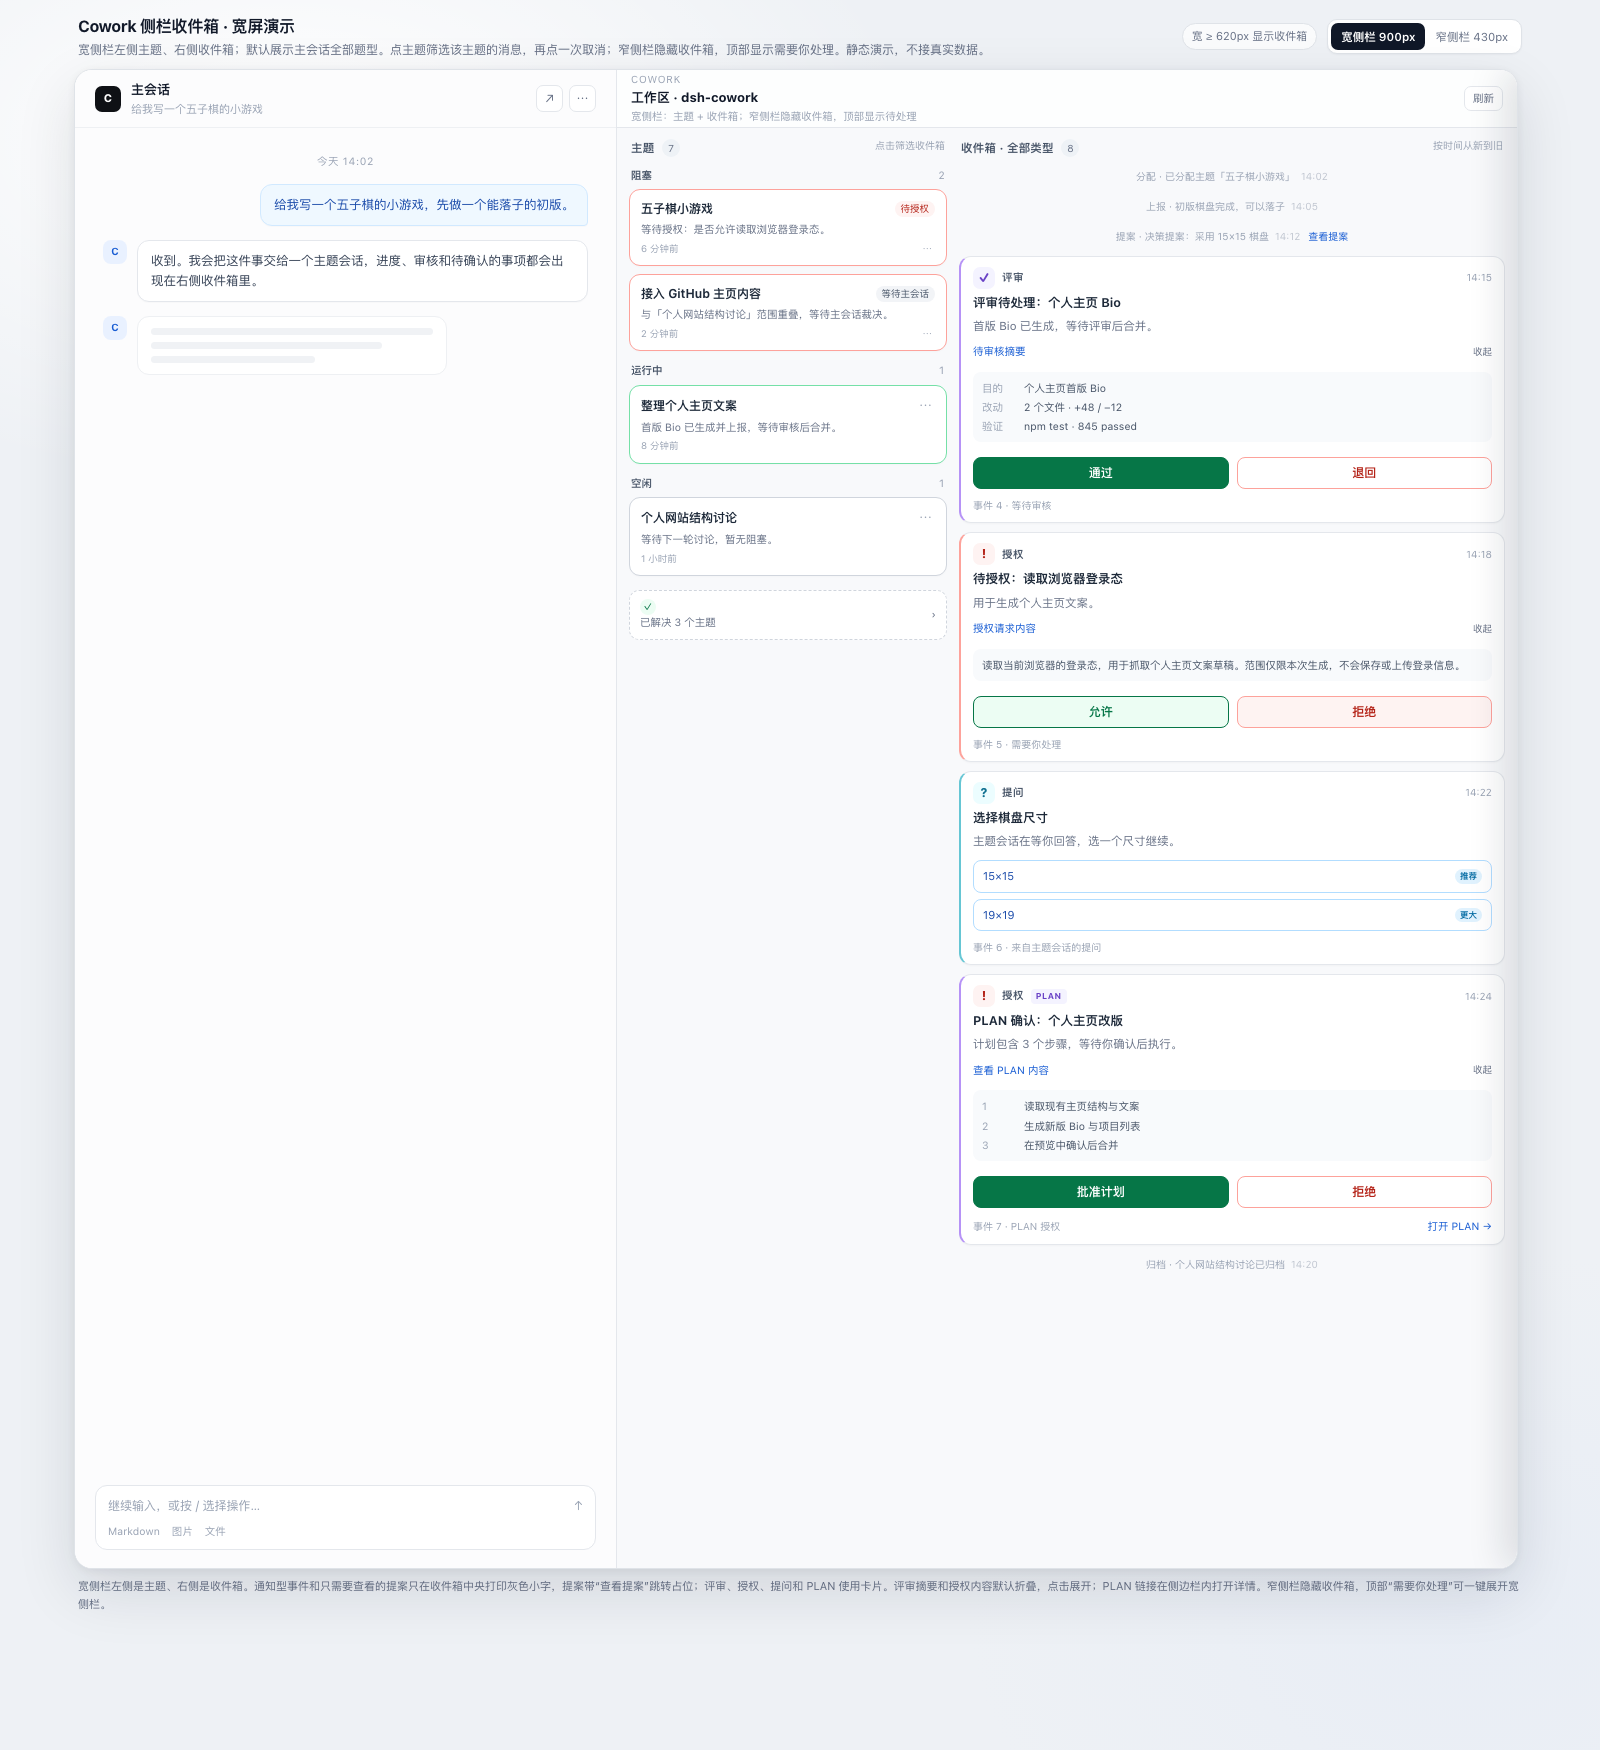
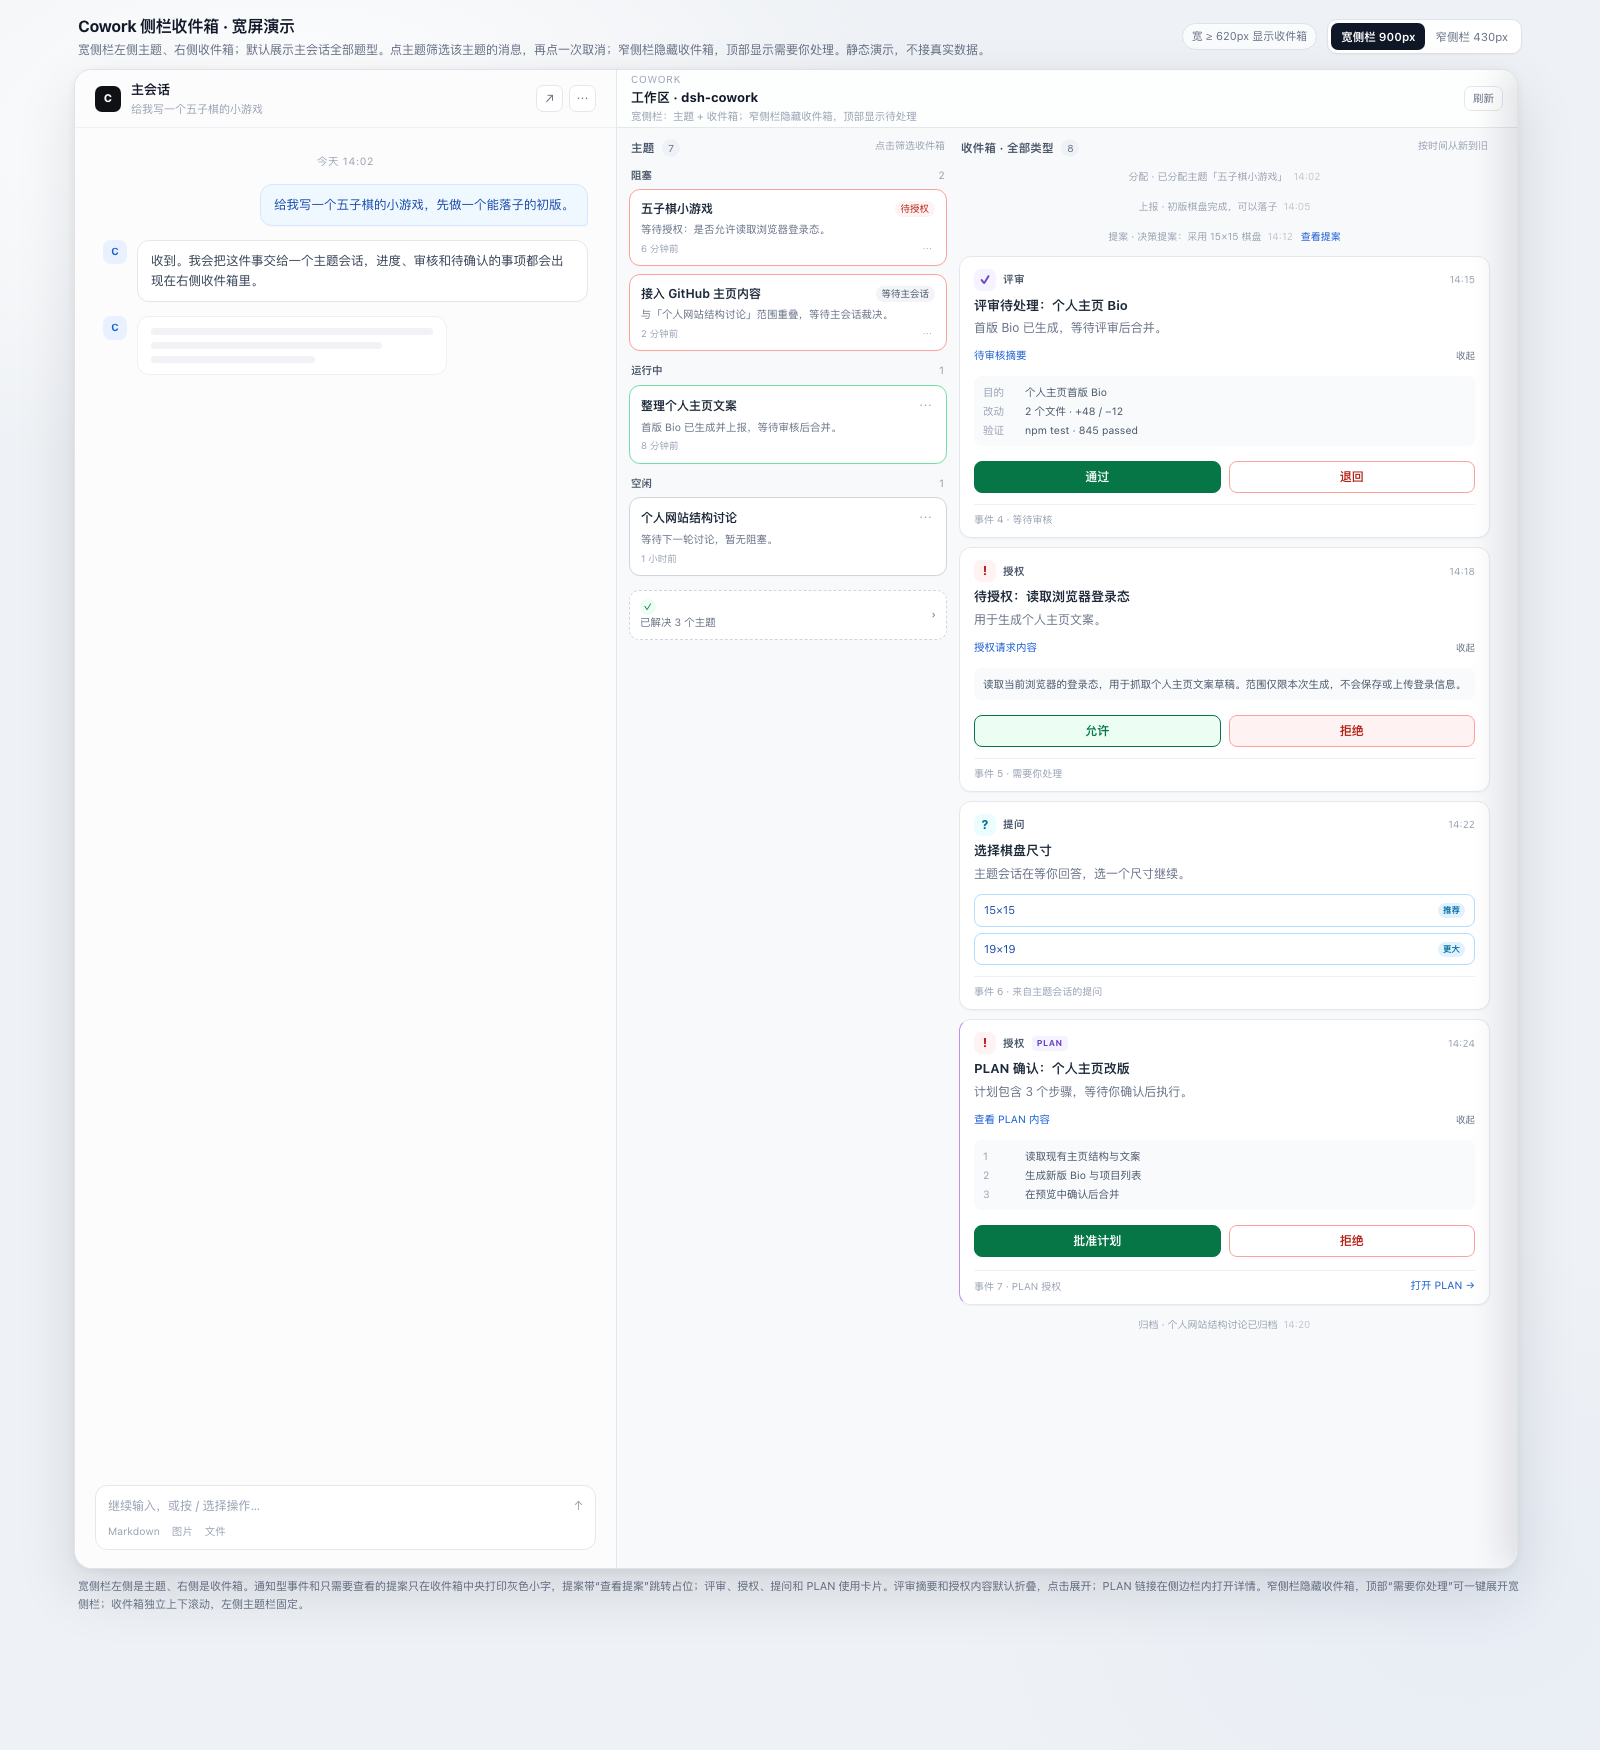
docs(topic-reminders): 收件箱独立滚动并统一卡片样式
主题栏固定在左，收件箱在右独立上下滚动；收件箱卡片改为会话内风格的中性边框、图标和分隔脚注。同步更新宽、窄、筛选、展开和 PLAN 截图。

diff --git a/docs/discussion/topic-reminder-demo.html b/docs/discussion/topic-reminder-demo.html
@@ -80,7 +80,7 @@
     position: relative;
     display: flex;
     width: 1444px;
-    height: 1250px;
+    height: 1150px;
     overflow: hidden;
     border: 1px solid #dfe3e8;
     border-radius: 18px;
@@ -271,6 +271,7 @@
   .sidebar-body {
     flex: 1 1 auto;
     min-height: 0;
+    overflow: hidden;
     display: grid;
     grid-template-columns: 318px minmax(0, 1fr);
     gap: 12px;
@@ -328,8 +329,14 @@
     min-height: 0;
     display: flex;
     flex-direction: column;
-    overflow-y: auto;
     scrollbar-width: thin;
+  }
+  .topic-column { overflow: hidden; }
+  .reminder-column {
+    overflow-y: auto;
+    overscroll-behavior: contain;
+    scrollbar-gutter: stable;
+    padding-right: 4px;
   }
   .topic-column::-webkit-scrollbar, .reminder-column::-webkit-scrollbar { width: 6px; }
   .topic-column::-webkit-scrollbar-thumb, .reminder-column::-webkit-scrollbar-thumb {
@@ -432,20 +439,14 @@
     display: flex;
     flex-direction: column;
     gap: 5px;
-    padding: 10px 12px 9px;
+    padding: 12px 14px 10px;
     border: 1px solid var(--line);
     border-radius: 12px;
     background: #fff;
-    box-shadow: 0 1px 2px rgba(16,24,40,.03);
+    box-shadow: 0 1px 2px rgba(16,24,40,.04);
     transition: opacity .15s ease, background .15s ease;
   }
   .reminder-card:hover { border-color: #cfd6e0; box-shadow: 0 3px 10px rgba(16,24,40,.05); }
-  .reminder-card[data-kind="assignment"] { border-left: 2px solid #84adff; }
-  .reminder-card[data-kind="report"] { border-left: 2px solid #75e0a7; }
-  .reminder-card[data-kind="proposal"] { border-left: 2px solid #fdb022; }
-  .reminder-card[data-kind="review"] { border-left: 2px solid #b692f6; }
-  .reminder-card[data-kind="authorization"] { border-left: 2px solid #fda29b; }
-  .reminder-card[data-kind="archive"] { border-left: 2px solid #d0d5dd; }
   .reminder-card.is-done { background: #fcfcfd; opacity: .72; }
   .reminder-top { display: flex; align-items: center; justify-content: space-between; gap: 8px; }
   .reminder-type { display: flex; align-items: center; gap: 7px; min-width: 0; }
@@ -468,8 +469,8 @@
   .reminder-card[data-kind="archive"] .type-icon { background: var(--gray-soft); color: #475467; }
   .type-label { font-size: 10.5px; font-weight: 700; letter-spacing: .04em; color: #475467; }
   .reminder-time { font-size: 10px; color: var(--soft); white-space: nowrap; }
-  .reminder-title { font-size: 12.5px; font-weight: 650; color: #1d2939; line-height: 1.45; }
-  .reminder-summary { font-size: 11.5px; color: var(--muted); line-height: 1.5; }
+  .reminder-title { font-size: 13px; font-weight: 650; color: #1d2939; line-height: 1.45; }
+  .reminder-summary { font-size: 12px; color: var(--muted); line-height: 1.55; }
   .review-actions {
     display: flex;
     gap: 8px;
@@ -498,7 +499,9 @@
   .review-btn.return:hover { background: var(--red-soft); }
   .review-btn:disabled { opacity: .5; cursor: not-allowed; }
   .reminder-foot {
-    margin-top: 2px;
+    margin-top: 4px;
+    padding-top: 7px;
+    border-top: 1px solid var(--line-soft);
     display: flex;
     align-items: center;
     justify-content: space-between;
@@ -576,7 +579,6 @@
   }
   .note-link:hover { text-decoration: underline; }
   .inbox-note[hidden] { display: none; }
-  .reminder-card[data-kind="question"] { border-left: 2px solid #66c6d4; }
   .reminder-card[data-kind="question"] .type-icon { background: #ecfdff; color: #0e7090; }
   .reminder-card[data-special="plan"] { border-left-color: #b692f6; }
   .plan-badge {
@@ -1023,7 +1025,7 @@
   </div>
 
   <p class="footnote">
-    宽侧栏左侧是主题、右侧是收件箱。通知型事件和只需要查看的提案只在收件箱中央打印灰色小字，提案带“查看提案”跳转占位；评审、授权、提问和 PLAN 使用卡片。评审摘要和授权内容默认折叠，点击展开；PLAN 链接在侧边栏内打开详情。窄侧栏隐藏收件箱，顶部“需要你处理”可一键展开宽侧栏。
+    宽侧栏左侧是主题、右侧是收件箱。通知型事件和只需要查看的提案只在收件箱中央打印灰色小字，提案带“查看提案”跳转占位；评审、授权、提问和 PLAN 使用卡片。评审摘要和授权内容默认折叠，点击展开；PLAN 链接在侧边栏内打开详情。窄侧栏隐藏收件箱，顶部“需要你处理”可一键展开宽侧栏；收件箱独立上下滚动，左侧主题栏固定。
   </p>
 </div>
 
